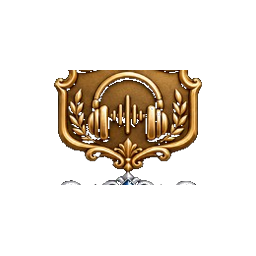
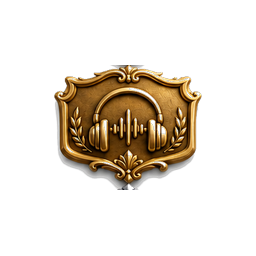
fix: re-slice skill-tier badges from v2 grid with clean cutouts
The slice script was preferring the black ornate source grid, which produced
bad crops (neighbor bleed, clipped tips). It now uses source-grid-v2.png with
per-row blob detection, white background keying, and tier bleed trimming.

Changed region(s): [[0.1875, 0.25, 0.8125, 0.75]]

diff --git a/scripts/slice-skill-tier-badges.py b/scripts/slice-skill-tier-badges.py
@@ -3,7 +3,6 @@
 
 from __future__ import annotations
 
-import shutil
 from pathlib import Path
 
 from PIL import Image
@@ -22,15 +21,17 @@ OUT_DIR = ROOT / "public/assets/skill-tier-badges"
 SKILLS = ["reading", "listening", "speaking", "writing"]
 TIERS = ["wood", "bronze", "silver", "gold", "platinum"]
 
-# Trim gutters inside the uniform grid (tune once per source art).
-MARGIN_X = 0.08
-MARGIN_Y = 0.08
-GUTTER_X = 0.02
-GUTTER_Y = 0.03
-
-# Normalised output — shield floats inside canvas so card render never clips tips.
 OUTPUT_SIZE = 256
 CONTENT_FILL = 0.58
+
+LEGACY_MARGIN_X = 0.08
+LEGACY_MARGIN_Y = 0.08
+LEGACY_GUTTER_X = 0.02
+LEGACY_GUTTER_Y = 0.03
+
+ALPHA_THRESHOLD = 48
+KEY_WHITE_CUTOFF = 28
+KEY_WHITE_FEATHER = 52
 
 
 def key_background_to_alpha(image: Image.Image) -> Image.Image:
@@ -41,38 +42,186 @@ def key_background_to_alpha(image: Image.Image) -> Image.Image:
     for y in range(height):
         for x in range(width):
             r, g, b, a = pixels[x, y]
-            if (r >= 238 and g >= 238 and b >= 238) or (r <= 35 and g <= 35 and b <= 35):
+            dist = max(255 - r, 255 - g, 255 - b)
+            if dist <= KEY_WHITE_CUTOFF:
                 pixels[x, y] = (r, g, b, 0)
+            elif dist <= KEY_WHITE_FEATHER:
+                alpha = int((dist - KEY_WHITE_CUTOFF) * 255 / (KEY_WHITE_FEATHER - KEY_WHITE_CUTOFF))
+                pixels[x, y] = (r, g, b, alpha)
     return rgba
 
 
-def crop_cell(image: Image.Image, col: int, row: int) -> Image.Image:
+def crop_cell_legacy(image: Image.Image, col: int, row: int) -> Image.Image:
     width, height = image.size
     cell_w = width / len(SKILLS)
     cell_h = height / len(TIERS)
 
-    left = col * cell_w + cell_w * MARGIN_X
-    top = row * cell_h + cell_h * MARGIN_Y
-    right = (col + 1) * cell_w - cell_w * MARGIN_X
-    bottom = (row + 1) * cell_h - cell_h * GUTTER_Y
+    left = col * cell_w + cell_w * LEGACY_MARGIN_X
+    top = row * cell_h + cell_h * LEGACY_MARGIN_Y
+    right = (col + 1) * cell_w - cell_w * LEGACY_MARGIN_X
+    bottom = (row + 1) * cell_h - cell_h * LEGACY_GUTTER_Y
 
     if col > 0:
-        left += cell_w * GUTTER_X / 2
+        left += cell_w * LEGACY_GUTTER_X / 2
     if col < len(SKILLS) - 1:
-        right -= cell_w * GUTTER_X / 2
+        right -= cell_w * LEGACY_GUTTER_X / 2
     if row > 0:
-        top += cell_h * GUTTER_Y / 2
+        top += cell_h * LEGACY_GUTTER_Y / 2
     if row < len(TIERS) - 1:
-        bottom -= cell_h * GUTTER_Y / 2
+        bottom -= cell_h * LEGACY_GUTTER_Y / 2
 
     return image.crop((int(left), int(top), int(right), int(bottom)))
 
 
+def _column_counts(
+    keyed: Image.Image,
+    min_x: int,
+    min_y: int,
+    max_x: int,
+    max_y: int,
+) -> list[int]:
+    alpha = keyed.split()[3]
+    ap = alpha.load()
+    cx = (min_x + max_x) // 2
+    half_w = max(20, int((max_x - min_x) * 0.3))
+    x0 = max(0, cx - half_w)
+    x1 = min(keyed.size[0] - 1, cx + half_w)
+    return [
+        sum(1 for x in range(x0, x1 + 1) if ap[x, y] >= ALPHA_THRESHOLD)
+        for y in range(min_y, max_y + 1)
+    ]
+
+
+def _trim_vertical_bleed(
+    keyed: Image.Image,
+    bbox: tuple[int, int, int, int],
+) -> tuple[int, int, int, int]:
+    """Drop the next-tier bleed connected through row gutters (gold vs platinum)."""
+    min_x, min_y, max_x, max_y = bbox
+    counts = _column_counts(keyed, min_x, min_y, max_x, max_y)
+    if not counts:
+        return bbox
+
+    peak = max(counts)
+    floor = max(12, int(peak * 0.28))
+
+    trim_max = max_y
+    state = "bottom_bleed"
+    for i in range(len(counts) - 1, -1, -1):
+        c = counts[i]
+        if state == "bottom_bleed":
+            if c < floor:
+                state = "valley"
+        elif state == "valley":
+            if c >= floor:
+                trim_max = min_y + i
+                break
+
+    trim_min = min_y
+    state = "top_bleed"
+    for i, c in enumerate(counts):
+        if state == "top_bleed":
+            if c < floor:
+                state = "valley"
+        elif state == "valley":
+            if c >= floor:
+                trim_min = min_y + i
+                break
+
+    if trim_min > trim_max:
+        return bbox
+    return (min_x, trim_min, max_x, trim_max)
+
+
+def _opaque_bbox(keyed: Image.Image) -> tuple[int, int, int, int] | None:
+    alpha = keyed.split()[3]
+    bbox = alpha.getbbox()
+    if bbox is None:
+        return None
+    return bbox
+
+
+def _split_row_blobs(keyed_row: Image.Image) -> list[tuple[int, int, int, int]]:
+    """Return up to four opaque blobs in a row band, sorted left-to-right."""
+    width, height = keyed_row.size
+    alpha = keyed_row.split()[3]
+    ap = alpha.load()
+    visited = [[False] * width for _ in range(height)]
+    blobs: list[tuple[int, int, int, int, int]] = []
+
+    for y in range(height):
+        for x in range(width):
+            if visited[y][x] or ap[x, y] < ALPHA_THRESHOLD:
+                continue
+            stack = [(x, y)]
+            visited[y][x] = True
+            min_x, min_y, max_x, max_y = x, y, x, y
+            sum_x = 0
+            count = 0
+            while stack:
+                cx, cy = stack.pop()
+                sum_x += cx
+                count += 1
+                for nx, ny in ((cx - 1, cy), (cx + 1, cy), (cx, cy - 1), (cx, cy + 1)):
+                    if 0 <= nx < width and 0 <= ny < height and not visited[ny][nx]:
+                        if ap[nx, ny] >= ALPHA_THRESHOLD:
+                            visited[ny][nx] = True
+                            stack.append((nx, ny))
+                            min_x = min(min_x, nx)
+                            max_x = max(max_x, nx)
+                            min_y = min(min_y, ny)
+                            max_y = max(max_y, ny)
+            width_blob = max_x - min_x + 1
+            height_blob = max_y - min_y + 1
+            if width_blob < 90 or height_blob < 70 or width_blob * height_blob < 9000:
+                continue
+            blobs.append((min_x, min_y, max_x, max_y, sum_x // count))
+
+    blobs.sort(key=lambda b: b[4])
+    return [(b[0], b[1], b[2], b[3]) for b in blobs[:len(SKILLS)]]
+
+
+def crop_cell_v2(image: Image.Image, col: int, row: int) -> Image.Image:
+    """Detect four badge blobs per row — v2 grid columns are not edge-aligned."""
+    width, height = image.size
+    cell_h = height / len(TIERS)
+    y0 = int(row * cell_h)
+    y1 = int((row + 1) * cell_h)
+    pad_into_prev = int(cell_h * 0.14) if row > 0 else 0
+
+    row_rgb = image.crop((0, max(0, y0 - pad_into_prev), width, y1))
+    keyed_row = key_background_to_alpha(row_rgb)
+    blobs = _split_row_blobs(keyed_row)
+
+    if len(blobs) < len(SKILLS):
+        return crop_cell_legacy(image, col, row)
+
+    min_x, min_y, max_x, max_y = blobs[col]
+    trimmed = _trim_vertical_bleed(keyed_row, (min_x, min_y, max_x, max_y))
+    if trimmed[3] >= trimmed[1] and trimmed[2] >= trimmed[0]:
+        min_x, min_y, max_x, max_y = trimmed
+    pad = max(3, int(cell_h * 0.03))
+    crop_box = (
+        max(0, min_x - pad),
+        max(0, min_y - pad),
+        min(keyed_row.size[0], max_x + pad + 1),
+        min(keyed_row.size[1], max_y + pad + 1),
+    )
+    return keyed_row.crop(crop_box)
+
+
+def crop_cell(image: Image.Image, col: int, row: int, *, v2: bool) -> Image.Image:
+    if v2:
+        return crop_cell_v2(image, col, row)
+    return crop_cell_legacy(image, col, row)
+
+
 def normalize_badge(cell: Image.Image) -> Image.Image:
     """Centre shield on a square canvas — tips stay inside alpha bounds."""
-    cell = key_background_to_alpha(cell)
-    bbox = cell.split()[3].getbbox()
-    if not bbox:
+    if cell.mode != "RGBA":
+        cell = key_background_to_alpha(cell)
+    bbox = _opaque_bbox(cell)
+    if bbox is None:
         return cell
 
     content = cell.crop(bbox)
@@ -89,8 +238,8 @@ def normalize_badge(cell: Image.Image) -> Image.Image:
 
 def pick_source() -> Path:
     for candidate in (
-        DESIGN_SOURCE_ORNATE,
         DESIGN_SOURCE_V2,
+        DESIGN_SOURCE_ORNATE,
         DESIGN_SOURCE,
         DEFAULT_SOURCE,
     ):
@@ -102,14 +251,15 @@ def pick_source() -> Path:
 def main() -> None:
     source = pick_source()
     DESIGN_SOURCE.parent.mkdir(parents=True, exist_ok=True)
+    v2 = source.resolve() == DESIGN_SOURCE_V2.resolve()
 
     OUT_DIR.mkdir(parents=True, exist_ok=True)
     grid = Image.open(source)
-    print(f"source {source.relative_to(ROOT)}")
+    print(f"source {source.relative_to(ROOT)} (v2={v2})")
 
     for row, tier in enumerate(TIERS):
         for col, skill in enumerate(SKILLS):
-            cell = crop_cell(grid, col, row)
+            cell = crop_cell(grid, col, row, v2=v2)
             cell = normalize_badge(cell)
             out = OUT_DIR / f"{skill}-{tier}.png"
             cell.save(out, format="PNG", optimize=True)
